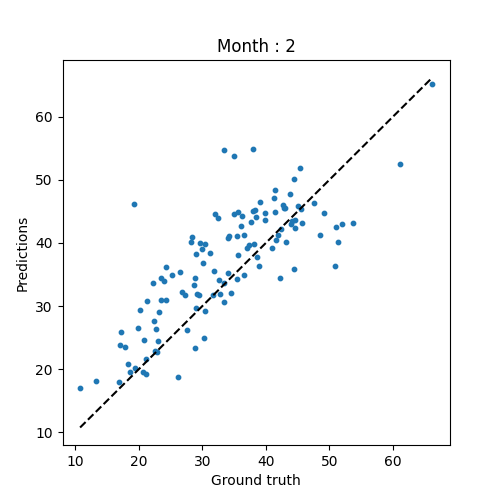
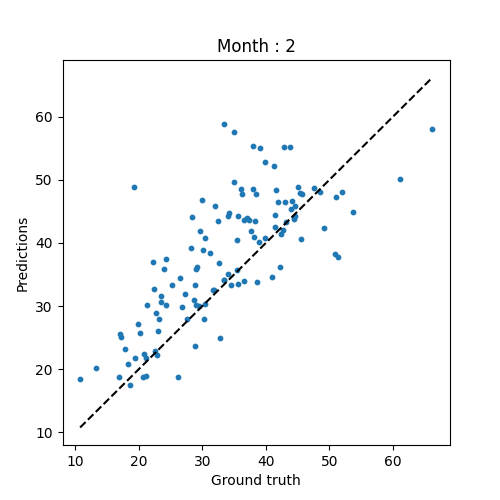
add some param in model definition

diff --git a/tools/tools_models.py b/tools/tools_models.py
@@ -110,7 +110,7 @@ def linear_regression():
 ### Random forests ###
 ######################
 
-def GBR(n_estim = 100, min_sample_leaf = 1, max_depth = 3, learning_rate = 0.1):
+def GBR(n_estim = 100, min_sample_leaf = 1, max_depth = 3, learning_rate = 0.1, min_samples_split = 2, subsample = 1.0):
     """
     Gradient Boosting Regression
 
@@ -134,6 +134,8 @@ def GBR(n_estim = 100, min_sample_leaf = 1, max_depth = 3, learning_rate = 0.1):
     """
     return GradientBoostingRegressor(
         n_estimators = n_estim, 
+        subsample = subsample,
+        min_samples_split = min_samples_split,
         min_samples_leaf = min_sample_leaf, 
         learning_rate = learning_rate,
         max_depth = max_depth, 
@@ -195,7 +197,7 @@ def random_forest(n_estim = 100, max_depth = None, min_samples_leaf = 1):
         random_state = RANDOM_STATE
     )
 
-def extremely_random_trees(n_estim = 100, max_depth = None, min_samples_leaf = 1):
+def extremely_random_trees(n_estim = 100, max_depth = None, min_samples_leaf = 1, min_samples_split = 2):
     """
     Extremely Random Trees
 
@@ -217,6 +219,7 @@ def extremely_random_trees(n_estim = 100, max_depth = None, min_samples_leaf = 1
     return ExtraTreesRegressor(
         n_estimators= n_estim,
         max_depth= max_depth,
+        min_samples_split = min_samples_split,
         min_samples_leaf= min_samples_leaf,
         random_state = RANDOM_STATE
     )

diff --git a/main.py b/main.py
@@ -69,7 +69,7 @@ dataset = remove_outliers(dataset, score_threshold)
 
 # Adding last month delays
 
-#dataset = last_month_column(dataset)
+dataset = last_month_column(dataset)
 
 # Spliting data
 train_set = dataset[dataset['date'].dt.year != 2023]
@@ -95,7 +95,11 @@ model_linear_regression = sgd_regressor()
 model_dt = decision_tree_reg(max_depth=7, min_samples_leaf=4)
 model_rf = random_forest(n_estim=100, max_depth=7, min_samples_leaf=8)
 model_GBR = GBR(n_estim=1000, max_depth=5, learning_rate=0.01)
-complete_pipeline = make_pipeline(pipeline1, model_GBR)
+model_HGBR = HGBR(max_iter = 100, max_depth = None, min_samples_leaf = 20, learning_rate = 0.2)
+model_ERT = extremely_random_trees(n_estim = 100, max_depth = None, min_samples_leaf = 1)
+model_XGBReg = XGBRegressor(n_estimators = 200, learning_rate = 0.3, max_depth = 3, random_state = 42) # extreme Gradient Boosting
+
+complete_pipeline = make_pipeline(pipeline1, model_HGBR)
 
 print("=========================")
 print("Starting the pipeline")
